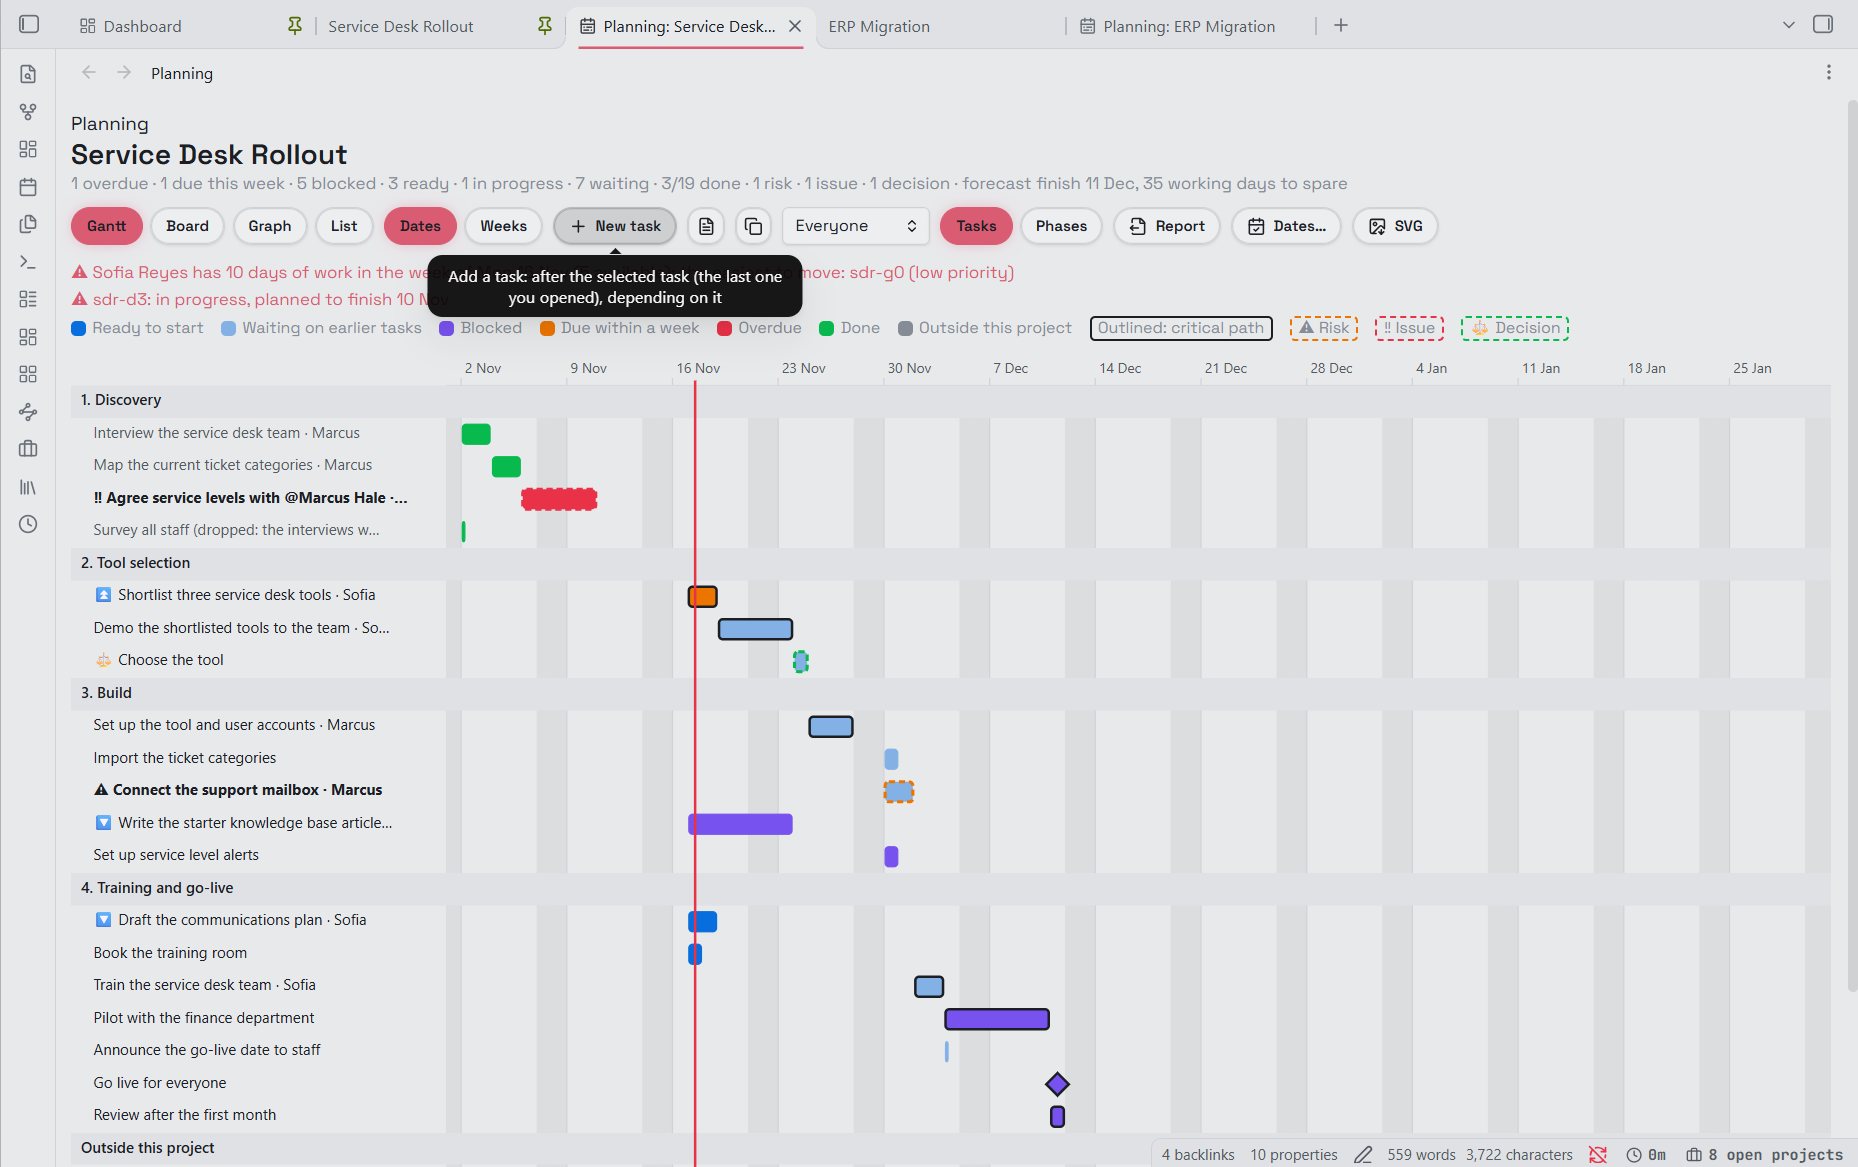
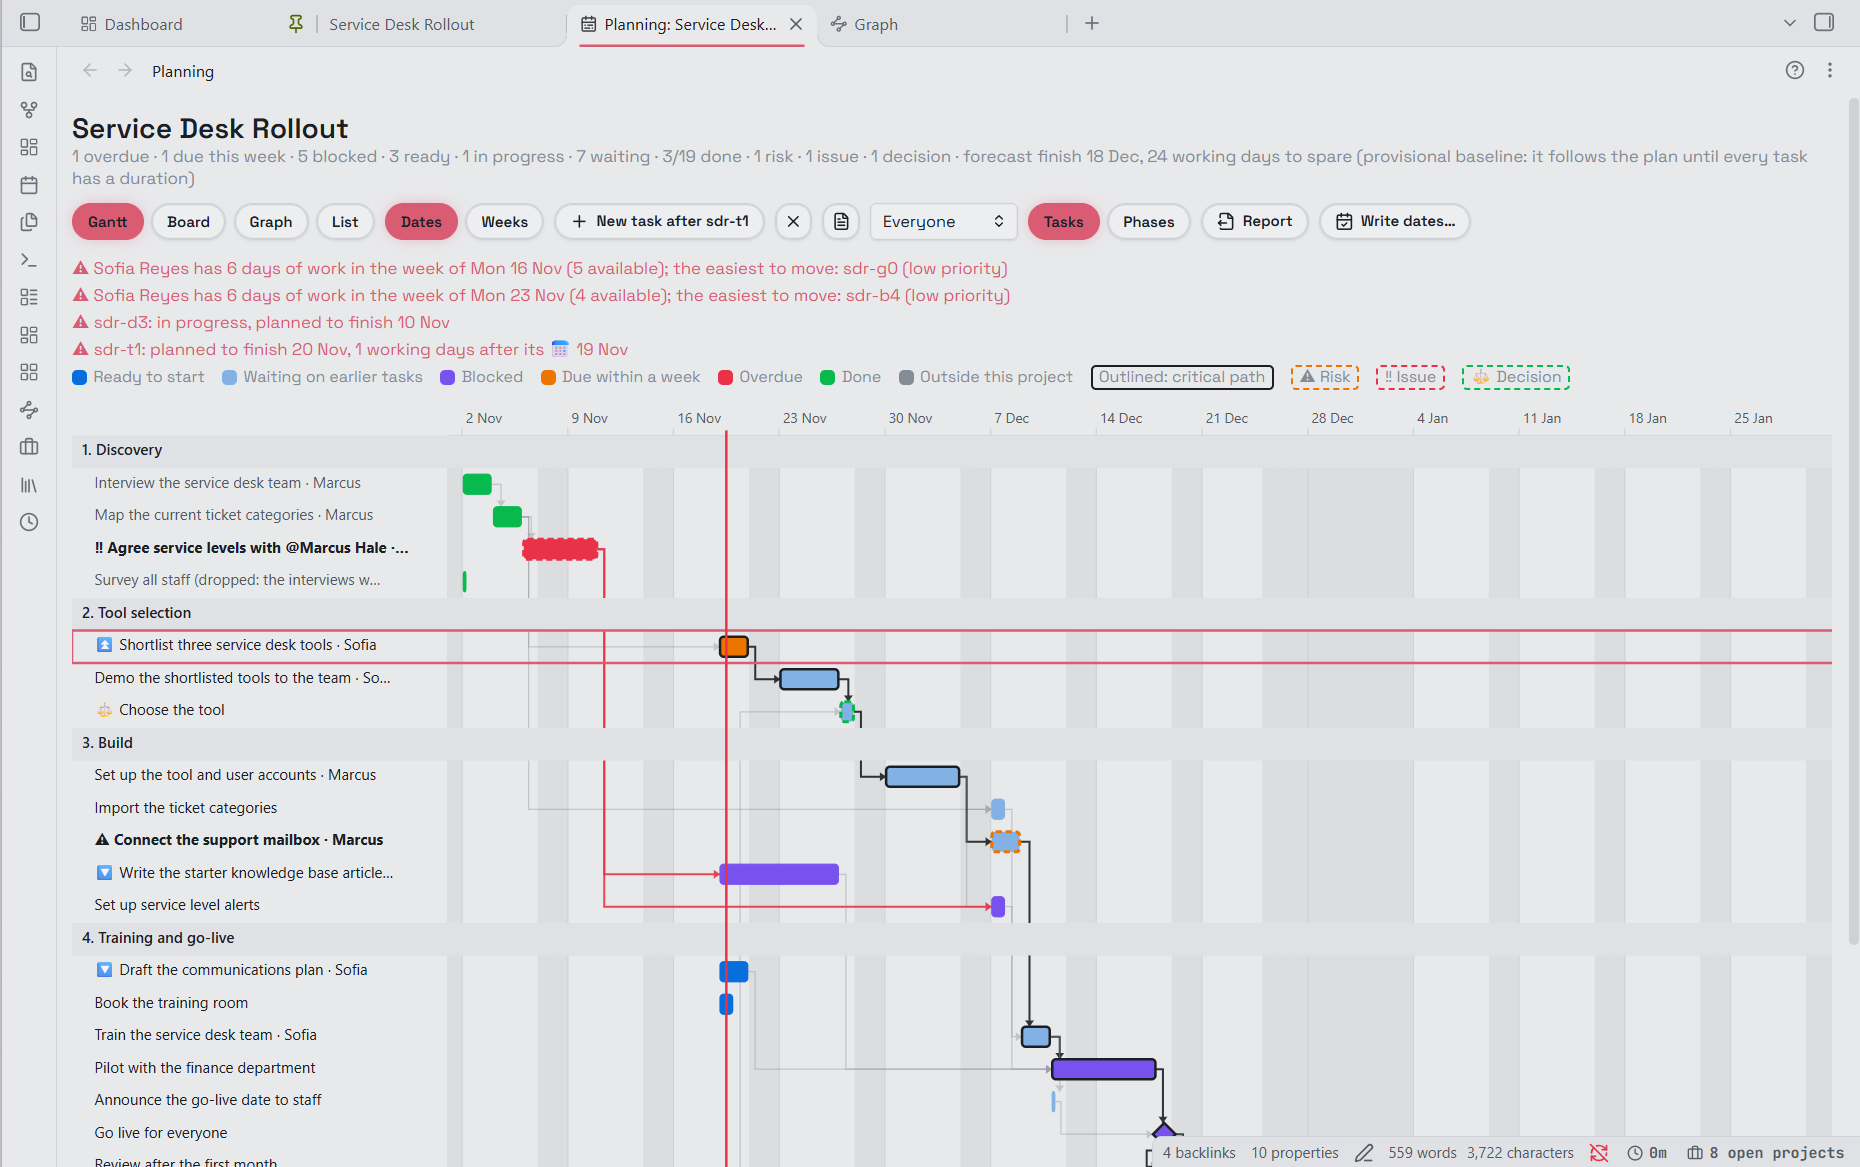
Screenshots for 1.5.5; "1 working day", not "1 working days"
New screenshots (from the sample vault): the Gantt chart with holidays
and time off, the quick capture panel in theme colours with its menu,
and the task editor's calendar (added to the README under the task
editor). The screenshot showed "1 working days" in a schedule warning;
the warning and the Gantt's due-date label now use planWorkingDays.
Test added.

Claude-Session: https://claude.ai/code/session_01TMjdGoB5YRCs7Fj8yjso62

diff --git a/src/tickets/plan-gantt.js b/src/tickets/plan-gantt.js
@@ -120,8 +120,8 @@ function planGanttText(tasks, { base = null, weeks = false, today = null, maxNam
     if (due) {
       const d = { id: `np${bars.length + 1}`, task: null, kind: late ? 'overdue' : 'done', crit: false, mark: null, start: due, end: due };
       bars.push(d);
-      lines.push(`  Due ${planShortDate(due)}${late ? ` (${late} working days late)` : ''} :milestone, ${d.id}, ${due}, 0d`);
-      drawn.push({ bar: d, label: `Due ${planShortDate(due)}${late ? ` (${late} working days late)` : ''}`, who: '', milestone: true, thin: false });
+      lines.push(`  Due ${planShortDate(due)}${late ? ` (${planWorkingDays(late)} late)` : ''} :milestone, ${d.id}, ${due}, 0d`);
+      drawn.push({ bar: d, label: `Due ${planShortDate(due)}${late ? ` (${planWorkingDays(late)} late)` : ''}`, who: '', milestone: true, thin: false });
     }
   }
   const kept = lines.filter((l, i) => !(l.startsWith('  section ') && (lines[i + 1] === undefined || lines[i + 1].startsWith('  section '))));

diff --git a/src/tickets/plan-forecast.js b/src/tickets/plan-forecast.js
@@ -49,7 +49,7 @@ function planWarnings(tasks, ends, today) {
   for (const t of tasks) {
     if (t.external || planClosed(t)) continue;
     const end = ends && ends.get(t);
-    if (end && t.due && end > t.due && !t.milestone) out.push({ task: t, text: `${name(t)}: planned to finish ${planShortDate(end)}, ${planWorkdaysBetween(t.due, end)} working days after its 📅 ${planShortDate(t.due)}` });
+    if (end && t.due && end > t.due && !t.milestone) out.push({ task: t, text: `${name(t)}: planned to finish ${planShortDate(end)}, ${planWorkingDays(planWorkdaysBetween(t.due, end))} after its 📅 ${planShortDate(t.due)}` });
     for (const d of t.deps) {
       const x = byId.get(d);
       if (x && t.due && x.due && t.due < x.due) out.push({ task: t, text: `${name(t)}: 📅 ${planShortDate(t.due)} is before ${name(x)}'s 📅 ${planShortDate(x.due)}, which it waits for` });

diff --git a/src/shared/plan.js b/src/shared/plan.js
@@ -234,6 +234,8 @@ function planWorkdays(ymd, n = 0, cal = planCal()) {
   return d;
 }
 
+/** "1 working day" / "3 working days". */
+const planWorkingDays = (n) => `${n} working day${n === 1 ? '' : 's'}`;
 /** Working days from one date to a later one (0 when b is not after a). */
 function planWorkdaysBetween(a, b, cal = planCal()) {
   let n = 0;

diff --git a/MAP.md b/MAP.md
@@ -65,7 +65,7 @@ Generated by `node tools/map.mjs`. One line per file: lines, then what is define
 - `plan-problems.js` (94): planProblems(), planLoops(), planLoopOrder()
 - `plan-scope.js` (108): NEON_PLAN, planFolderOf(), planScopeOf(), planScopeFiles(), planReadFile(), planGroupFolder(), planHolidays(), planCollect()
 - `plan-steps.js` (72): PLAN_ITEM_RE, planListTree(), planStepState(), planStepsOf(), planNestedIn(), planAddSteps()
-- `plan.js` (338): PLAN_BOX_RE, PLAN_FIELD_RE, PLAN_PRIORITIES, planPriority(), PLAN_OWNER_RE, planOwners(), PLAN_STATES, planTask(), planLinkField(), planHasTag(), planIndex(), planBlockers(), planState(), planSchedule(), planWorkdays(), planWorkdaysBetween(), planCounts(), planSummaryText(), planText(), planOwnerShort(), planLoad(), planOverloads()
+- `plan.js` (340): PLAN_BOX_RE, PLAN_FIELD_RE, PLAN_PRIORITIES, planPriority(), PLAN_OWNER_RE, planOwners(), PLAN_STATES, planTask(), planLinkField(), planHasTag(), planIndex(), planBlockers(), planState(), planSchedule(), planWorkdays(), planWorkdaysBetween(), planCounts(), planSummaryText(), planText(), planOwnerShort(), planLoad(), planOverloads()
 - `shared-notes.js` (288): ensureFolder(), uniquePath(), createUnique(), reusableLeaf(), inUnderscoreFolder(), hoverPreview(), openNewNote(), openFile(), activateView(), NEON_DAILY_FALLBACK, readDailyOpts(), corePluginOn(), dailyOpts(), dailyPath(), dailyFile(), dailyDateOf(), noteDateOf(), ensureToday(), minimalEdit(), writeNote(), deckApi(), neonPlugin(), NEON_APP, madeWith(), numSetting(), NEON_BASE, basePath(), dropOldDefaults(), NEON_IGNORE, setIgnoredTags(), isIgnoredNote()
 - `shared-ui.js` (165): PromptModal, PromptModal.onOpen, PromptModal.onClose, ConfirmModal, ConfirmModal.onOpen, ConfirmModal.onClose, DatePromptModal, DatePromptModal.onOpen, DatePromptModal.onClose, PathSuggest, PathSuggest.getSuggestions, PathSuggest.renderSuggestion, PathSuggest.selectSuggestion, suggestPaths(), LONG_PRESS_MS, installLongPress()
 - `shared.js` (292): NEON_MOBILE, DESKTOP_ONLY_MODULES, mobileOnlyNote(), ND_VERSION, UPSTREAM_CATS, CATS, CAT_ALIAS, CAT_LABEL, CAT_SHORT, CAT_FALLBACK, NEON_CATS, groupWord(), catColor(), folderSetting(), refreshCategories(), pathCustomer(), groupProps(), groupFromValue(), groupFromProps(), fmtMin(), countUp(), icon(), tip(), button(), pills(), widget(), emptyState(), safeName(), stripFrontmatter(), excerptOf(), applyTemplate(), parseDay(), fmTags(), NEON_PROJECTS, isProjectCache(), noteCategory(), fileCategory()

diff --git a/README.md b/README.md
@@ -85,6 +85,9 @@ A lightweight planner over the tasks already in a project note (or a project fol
 ![Planning: the list, with priority and slip](docs/screenshots/planning-list.png)
 
 - **Task editor:** click any task (or right-click in the note: *Planning: edit this task*; also a command, so it can have a hotkey). Description, status, priority, phase, owners, duration or milestone, markers, depends on / blocks (loops can't be made), dates (type them, or pick from the plugin's calendar with the button beside each: weekends, holidays and closures greyed, your own time off striped on your tasks (set **You** in *Settings → Projects*) and anyone else's underlined in orange, named on tap, the plan's own start and finish outlined, the reason shown on hover or tap; any day can still be picked; on phones and tablets the field opens this calendar too), and an id given automatically; a preview shows exactly what will be written. **New task** follows the selected task. **Cancel task** marks it ❌ (it stays in the note); **Delete task…** removes it and its steps, takes its id out of the tasks that depend on it, and asks first, listing all of that.
+
+  ![The task editor's calendar: holidays greyed, time off underlined, the planned start and finish outlined](docs/screenshots/planning-editor-calendar.png)
+
 - **Report** saves a printable note of the plan (a summary first: forecast, the Gantt chart, phases, people, what needs attention, risks, workload; then the project note itself up to its last task, without the plan's ids and links, so research kept below the plan is left out) in the reports folder; print it with *Export to PDF*. **Write dates…** records today's planned dates in the tasks you tick (🛫 start, 📅 due): a snapshot that then holds the plan. To have the current plan show in the Tasks plugin and calendars instead, turn on **Keep ⏳ scheduled dates in step with the plan** in the tab's ⋯ menu (per project, stored as `plan-scheduled: true` in the project note): Planning then updates each open task's ⏳ whenever the plan moves it, and never touches 🛫 or 📅. **Forecast finish** against the project's `due` date, a **baseline** to see slip, a person filter with a warning when someone has more than five days of work in a week, and weekend dates flagged.
 ![A Planning report, ready to print](docs/screenshots/planning-report.png)
 
